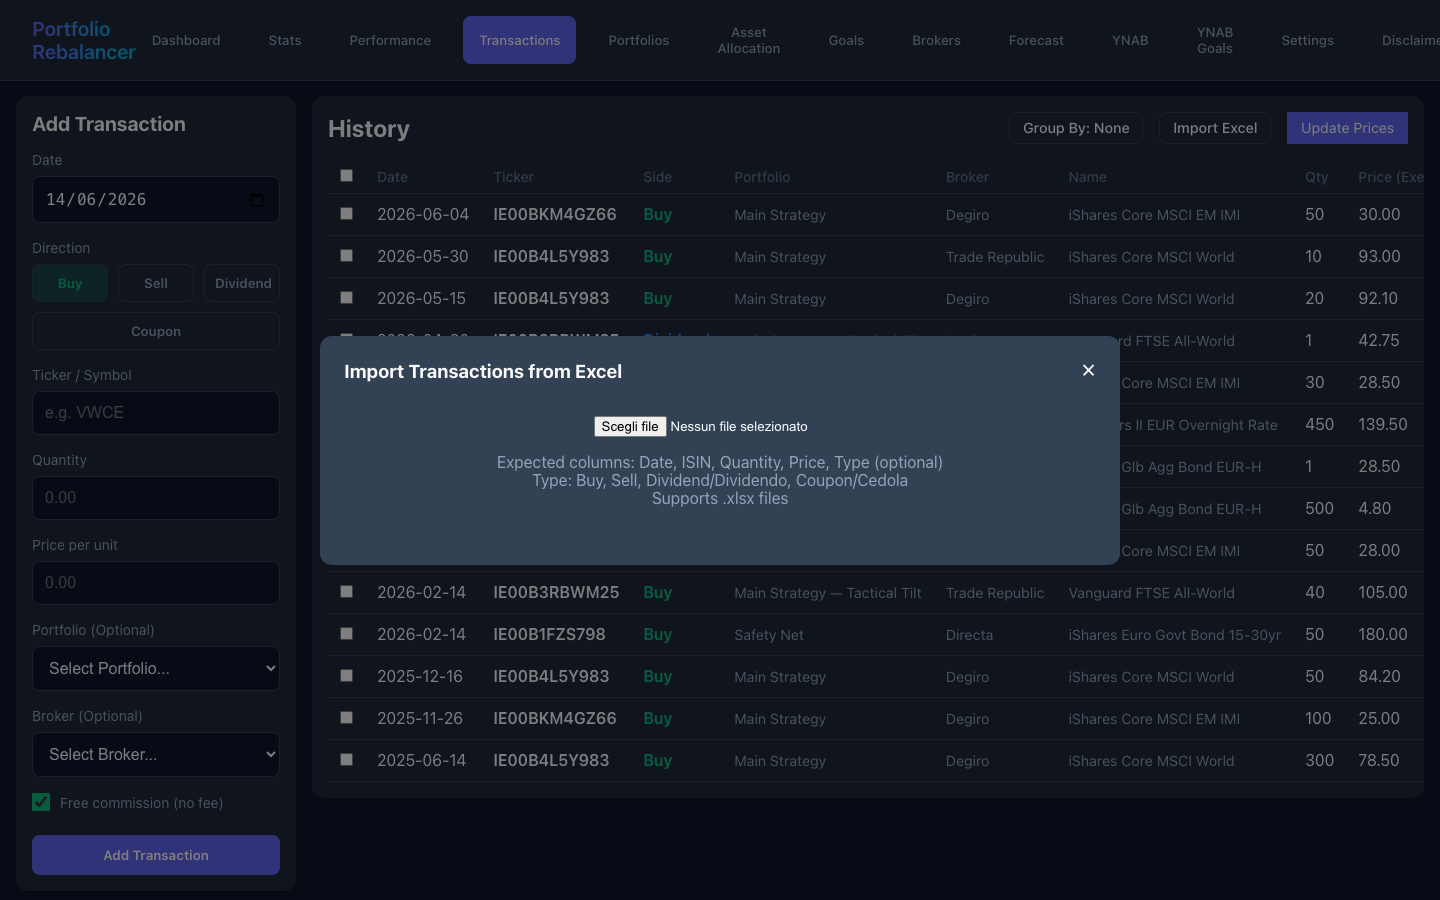
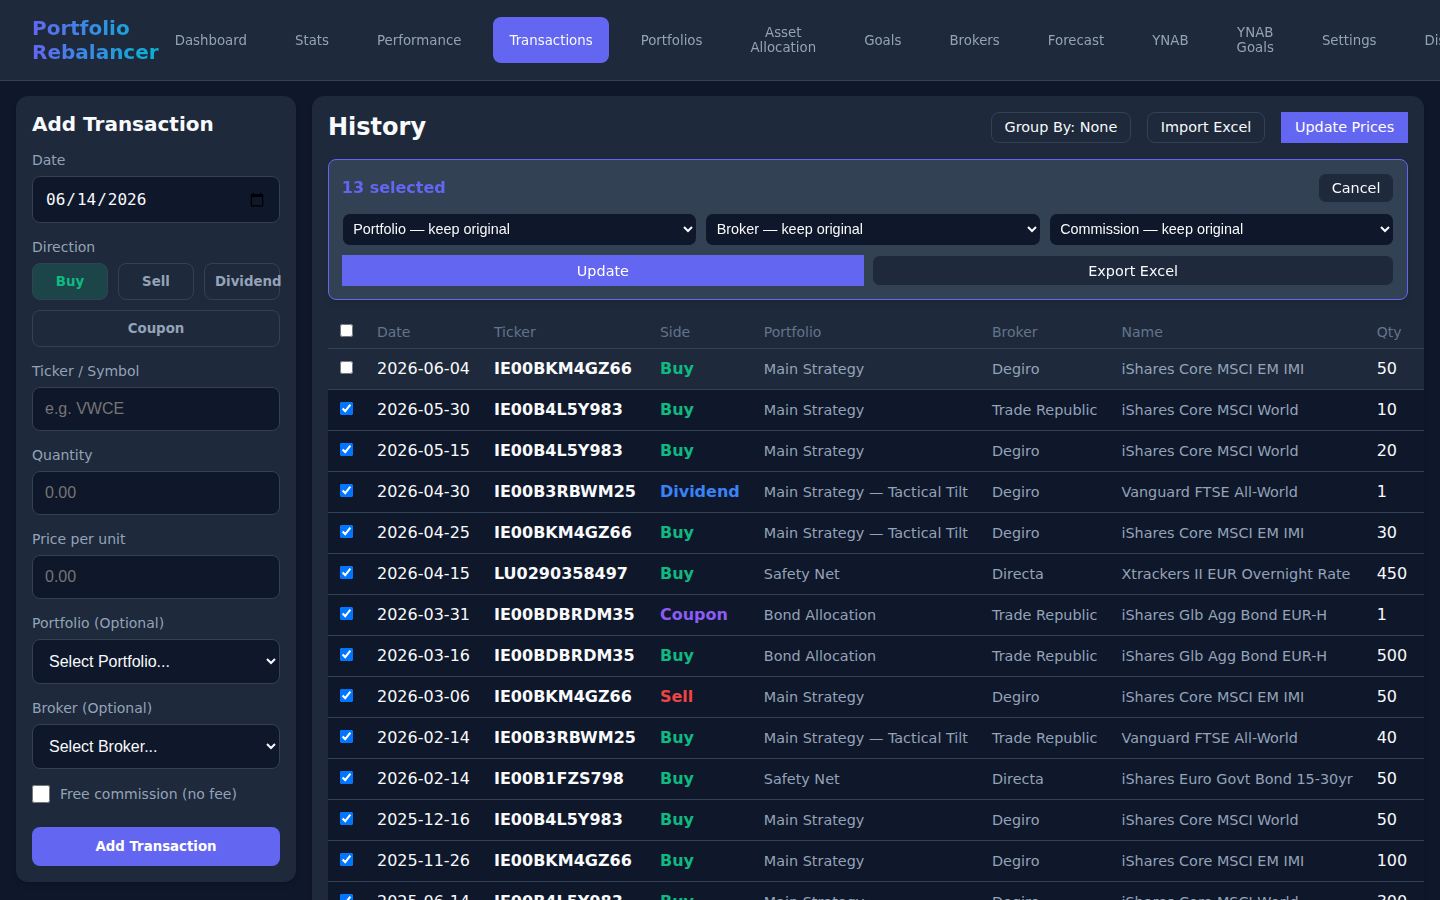
Fix Bulk Edit screenshot and document transaction grouping
The previous Bulk Edit screenshot showed the Excel import modal by
mistake. Retake it with the bulk action toolbar visible, and add a new
README section explaining and illustrating the Group By Portfolio /
Broker / Asset feature with the stats shown in each group header.

diff --git a/README.md b/README.md
@@ -105,17 +105,47 @@ The full history of buys, sells, dividends and coupons, with a quick-add form.
 ![Transactions list](screenshots/transactions_page.png)
 
 - **Add Transaction** (left) — ticker, direction (Buy / Sell / Dividend / Coupon), quantity, price, date, portfolio, broker, and a *free commission* flag.
-- **History** (right) — sortable table, **Group by Portfolio or Broker**; each group header shows running totals and **total fees** (toggleable between EUR and %).
+- **History** (right) — sortable table, **Group by Portfolio, Broker or Asset**; each group header shows running totals and **total fees** (toggleable between EUR and %).
 - **Inline & modal editing** for quick fixes vs full entry.
 - **Update Prices** triggers the live multi-source price refresh (see below).
 
-**Bulk Edit** — select multiple rows to change broker / portfolio / fees together; unchanged fields keep a "keep original" label so you know exactly what will change.
+**Bulk Edit** — select multiple rows to change broker / portfolio / commission together; unchanged fields keep a "keep original" label so you know exactly what will change. The toolbar also offers a quick **Export Excel** for the selected rows.
 
 ![Bulk edit toolbar](screenshots/transactions_bulk_edit.png)
 
 **Excel Import** — import an `.xlsx` history from your broker; the importer recognises a `Broker` column and maps it onto each transaction.
 
 ![Import modal](screenshots/transactions_import_modal.png)
+
+#### Grouping transactions
+
+The **Group By** button cycles the history through `None → Portfolio → Broker → Asset`, splitting the transaction list into sections with a running summary in each header.
+
+![Grouped by Portfolio](screenshots/transactions_group_by_portfolio.png)
+
+- **By Portfolio** — every transaction routed to that portfolio (including its sub-portfolios' tickers when shared).
+
+![Grouped by Broker](screenshots/transactions_group_by_broker.png)
+
+- **By Broker** — transactions executed at that broker, useful for checking per-broker activity and fees.
+
+![Grouped by Asset](screenshots/transactions_group_by_asset.png)
+
+- **By Asset** — every Buy/Sell/Dividend/Coupon for a single ticker, grouped under its display name.
+
+Each group header shows:
+
+- **Number of transactions** in the group.
+- **Bought** / **Sold** — total quantity bought and sold.
+- **Cost Basis** — current book value of the held quantity (quantity × average purchase price).
+- **Market Value** — current market value of the same holdings.
+- **P&L** — unrealized gain/loss on the open position.
+- **Realized** — gains/losses already locked in from past sells.
+- **Total Fees** — sum of commissions paid (hidden if zero).
+- **Distributions** — dividends/coupons received (hidden if zero).
+- **Total Return** — P&L + Realized + Distributions, the overall result for the group.
+
+A small **€ / %** toggle on each header switches P&L, Realized, Total Fees, Distributions and Total Return between absolute euro amounts and percentages of the cost basis.
 
 ### Portfolios
 